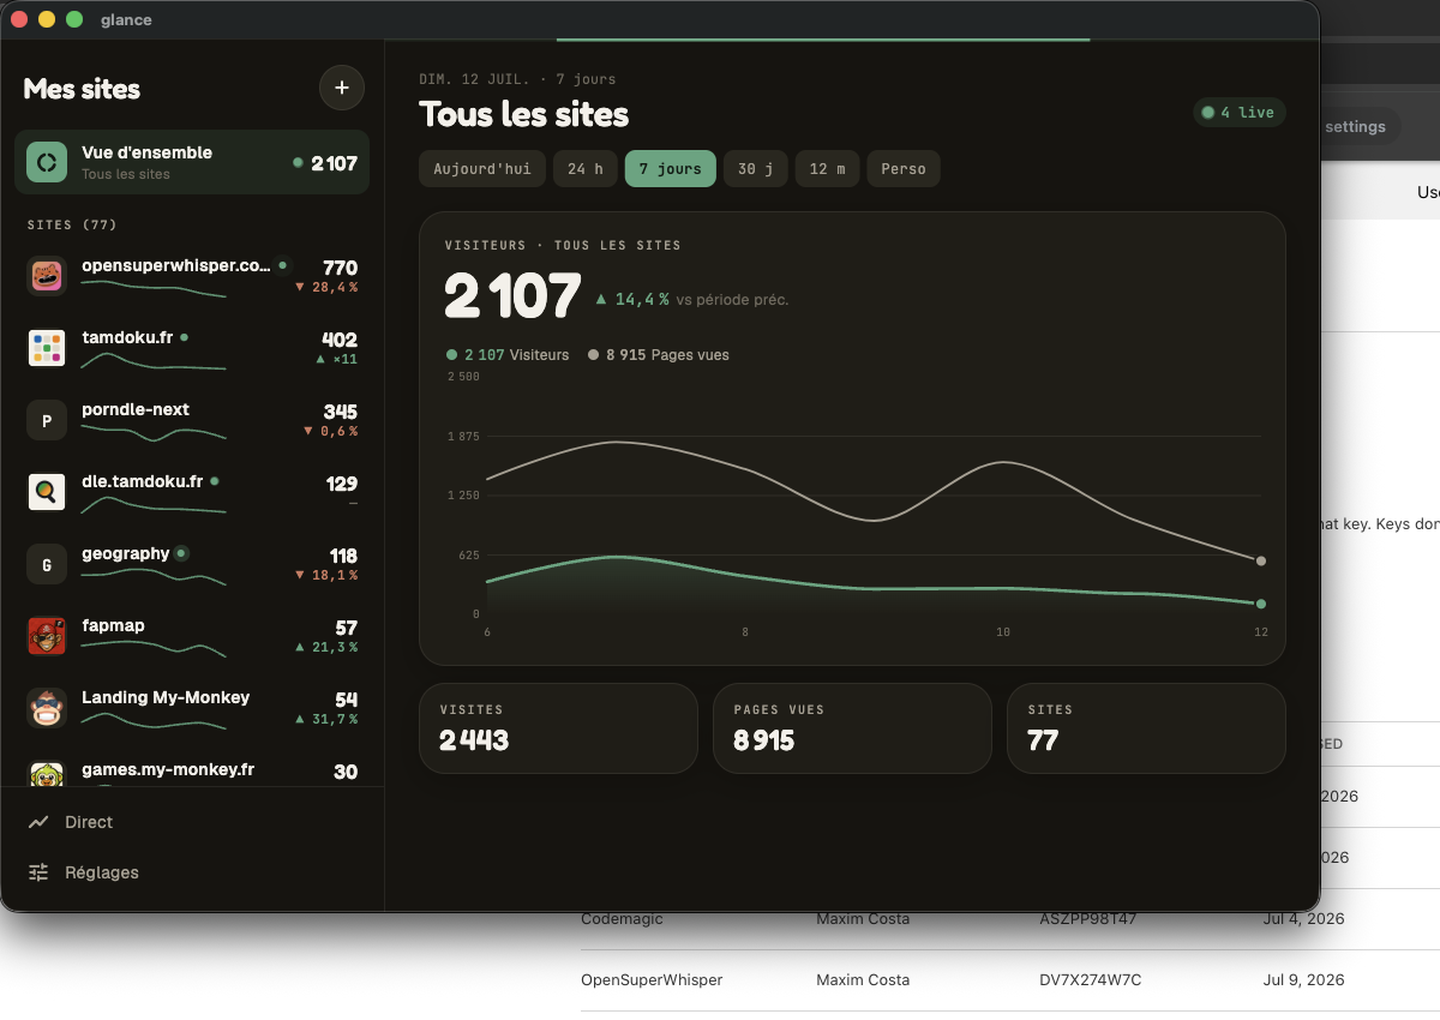
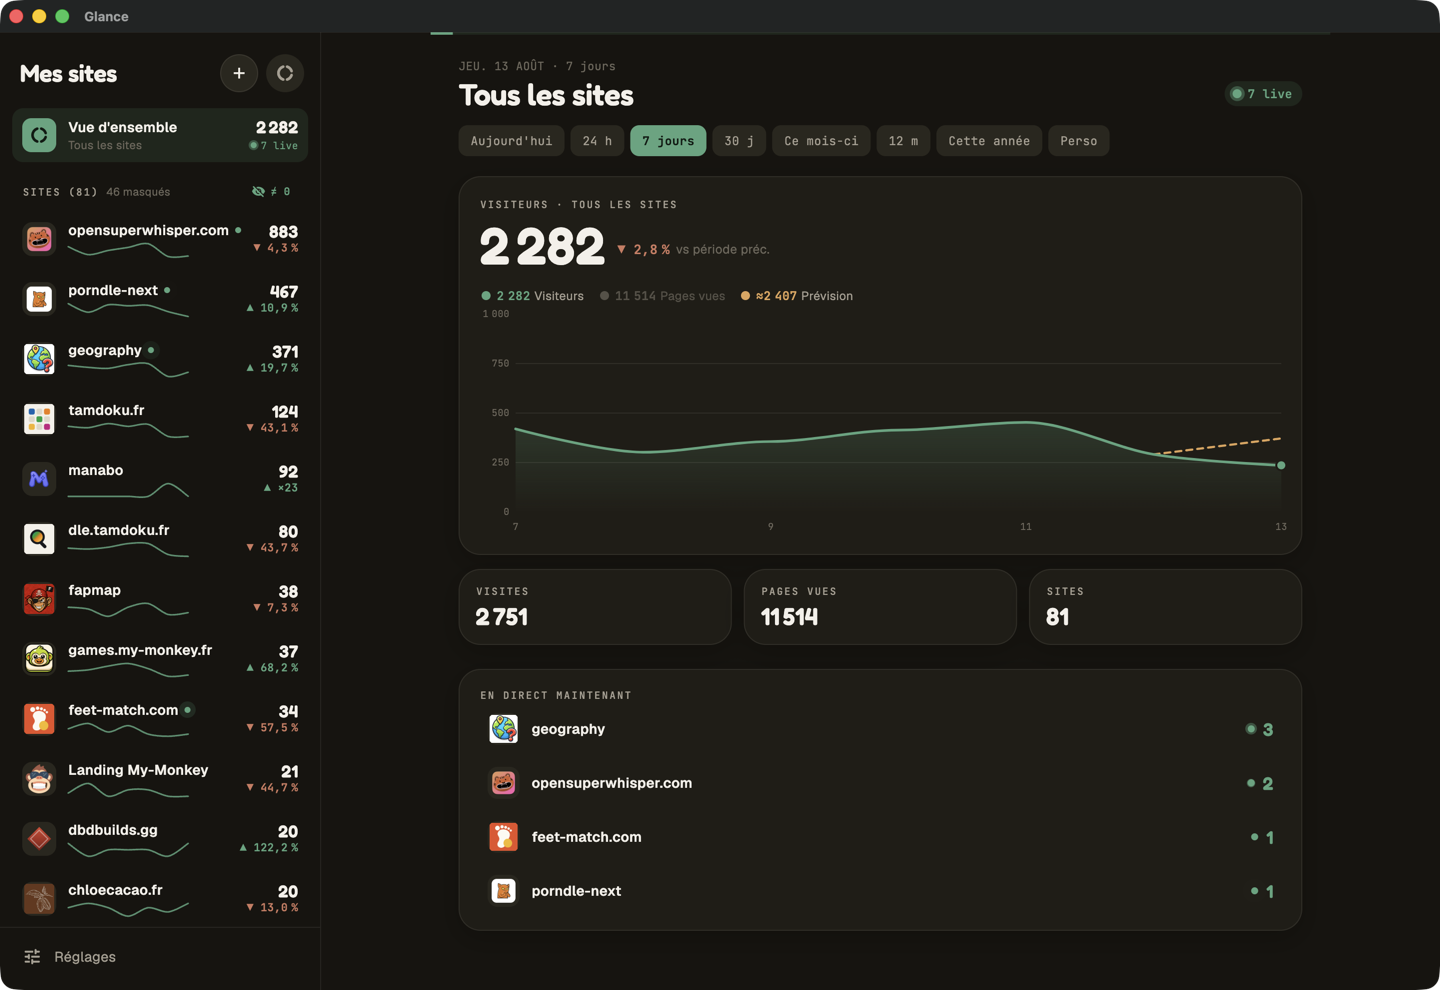
fix(site): capture desktop propre (fenêtre isolée, app 1.8.0)
L'ancienne montrait les fenêtres derrière (dont des clés ASC).
Recapturée fenêtre seule via screencapture -l : 7 jours, prévision
pointillée et nouvelles périodes visibles.

Claude-Session: https://claude.ai/code/session_01VXW9QjKgyzG5Aq6j8vGN8c

diff --git a/store/site/index.html b/store/site/index.html
@@ -20,7 +20,7 @@
 <meta property="og:url" content="https://glance-analytics.com">
 <meta property="og:image" content="https://glance-analytics.com/img/desktop.png">
 <meta property="og:image:width" content="1440">
-<meta property="og:image:height" content="1020">
+<meta property="og:image:height" content="990">
 <meta property="og:image:alt" content="Glance sur macOS — liste des sites et vue d'ensemble">
 <meta name="twitter:card" content="summary_large_image">
 <meta name="twitter:image" content="https://glance-analytics.com/img/desktop.png">
@@ -315,7 +315,7 @@ a{color:#3B7A5A;text-decoration:none}a:hover{color:#2F6349}
 </div>
 </div>
 
-<div id="desk" class="sec" style="padding-top:24px;padding-bottom:40px;background:#F1EFE9"><div class="feat"><div class="featx" style="flex:0 0 300px"><div class="kick">macOS & Windows</div><h2 class="h2" style="margin-top:16px">Sur votre<br>bureau aussi</h2><p class="body" style="margin-top:16px">Vue master-détail native : la liste de vos sites à gauche, tout le détail à droite. La même app, en grand.</p></div><div class="featx"><div class="shot" style="width:100%;aspect-ratio:16/10;border-radius:14px"><img src="img/desktop.png" alt="Glance sur macOS — la liste des sites à gauche, la vue d'ensemble avec graphique à droite" width="1440" height="1020" loading="lazy"></div></div></div></div>
+<div id="desk" class="sec" style="padding-top:24px;padding-bottom:40px;background:#F1EFE9"><div class="feat"><div class="featx" style="flex:0 0 300px"><div class="kick">macOS & Windows</div><h2 class="h2" style="margin-top:16px">Sur votre<br>bureau aussi</h2><p class="body" style="margin-top:16px">Vue master-détail native : la liste de vos sites à gauche, tout le détail à droite. La même app, en grand.</p></div><div class="featx"><div class="shot" style="width:100%;aspect-ratio:16/10;border-radius:14px"><img src="img/desktop.png" alt="Glance sur macOS — la liste des sites à gauche, la vue d'ensemble avec graphique à droite" width="1440" height="990" loading="lazy"></div></div></div></div>
 
 <div class="sec" style="padding-top:56px;padding-bottom:76px"><div style="text-align:center"><div class="kick">Mobile & widgets</div><h2 class="h2" style="margin-top:14px">Dans votre poche,<br>sur votre écran d'accueil</h2></div>
 <div class="mslider" style="margin-top:34px"><div class="mvp"><div class="mtrack" data-i="0">

diff --git a/store/site/en/index.html b/store/site/en/index.html
@@ -20,7 +20,7 @@
 <meta property="og:url" content="https://glance-analytics.com/en/">
 <meta property="og:image" content="https://glance-analytics.com/img/desktop.png">
 <meta property="og:image:width" content="1440">
-<meta property="og:image:height" content="1020">
+<meta property="og:image:height" content="990">
 <meta property="og:image:alt" content="Glance on macOS — site list and overview">
 <meta name="twitter:card" content="summary_large_image">
 <meta name="twitter:image" content="https://glance-analytics.com/img/desktop.png">
@@ -315,7 +315,7 @@ a{color:#3B7A5A;text-decoration:none}a:hover{color:#2F6349}
 </div>
 </div>
 
-<div id="desk" class="sec" style="padding-top:24px;padding-bottom:40px;background:#F1EFE9"><div class="feat"><div class="featx" style="flex:0 0 300px"><div class="kick">macOS & Windows</div><h2 class="h2" style="margin-top:16px">On your<br>desktop too</h2><p class="body" style="margin-top:16px">A native master-detail view: your sites on the left, the full detail on the right. The same app, bigger.</p></div><div class="featx"><div class="shot" style="width:100%;aspect-ratio:16/10;border-radius:14px"><img src="/img/desktop.png" alt="Glance on macOS — the site list on the left, the overview with chart on the right" width="1440" height="1020" loading="lazy"></div></div></div></div>
+<div id="desk" class="sec" style="padding-top:24px;padding-bottom:40px;background:#F1EFE9"><div class="feat"><div class="featx" style="flex:0 0 300px"><div class="kick">macOS & Windows</div><h2 class="h2" style="margin-top:16px">On your<br>desktop too</h2><p class="body" style="margin-top:16px">A native master-detail view: your sites on the left, the full detail on the right. The same app, bigger.</p></div><div class="featx"><div class="shot" style="width:100%;aspect-ratio:16/10;border-radius:14px"><img src="/img/desktop.png" alt="Glance on macOS — the site list on the left, the overview with chart on the right" width="1440" height="990" loading="lazy"></div></div></div></div>
 
 <div class="sec" style="padding-top:56px;padding-bottom:76px"><div style="text-align:center"><div class="kick">Mobile & widgets</div><h2 class="h2" style="margin-top:14px">In your pocket,<br>on your home screen</h2></div>
 <div class="mslider" style="margin-top:34px"><div class="mvp"><div class="mtrack" data-i="0">
